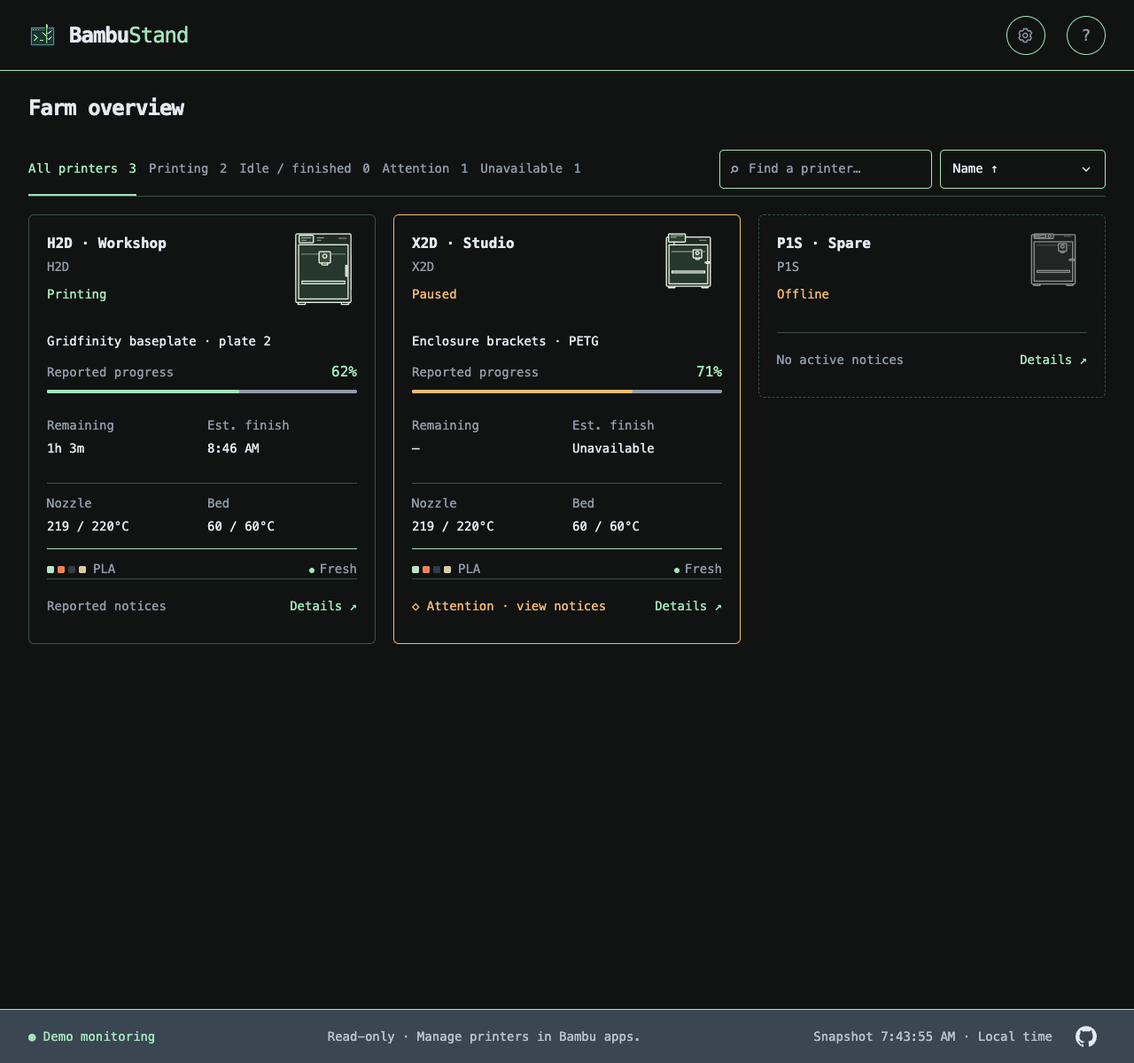
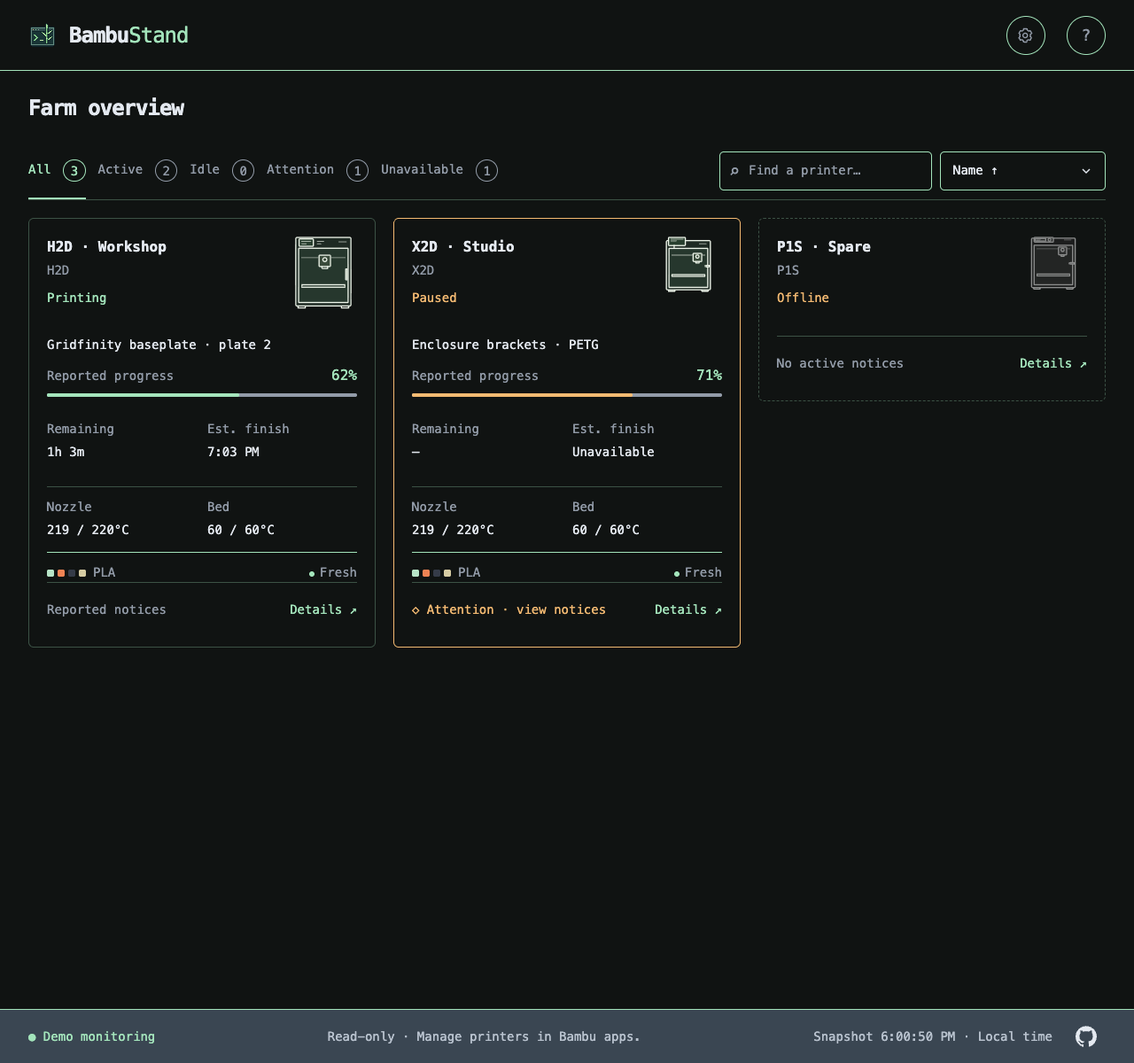
Refine browser status labels and count badges for v0.10.1

diff --git a/internal/webserver/assets/index.html b/internal/webserver/assets/index.html
@@ -45,9 +45,9 @@
         <section class="fleet" aria-label="Printers">
           <div class="toolbar">
             <div class="filters" role="group" aria-label="Filter printers">
-              <button class="selected" data-filter="all" aria-pressed="true">All printers <span id="all-count">0</span></button
-              ><button data-filter="printing" aria-pressed="false">Printing <span id="printing-count">0</span></button
-              ><button data-filter="idle" aria-pressed="false" aria-describedby="idle-filter-help">Idle / finished <span id="idle-count">0</span></button
+              <button class="selected" data-filter="all" aria-pressed="true">All <span id="all-count">0</span></button
+              ><button data-filter="printing" aria-pressed="false">Active <span id="printing-count">0</span></button
+              ><button data-filter="idle" aria-pressed="false" aria-describedby="idle-filter-help">Idle <span id="idle-count">0</span></button
               ><button data-filter="attention" aria-pressed="false">Attention <span id="attention-count">0</span></button
               ><button data-filter="unavailable" aria-pressed="false">Unavailable <span id="unavailable-count">0</span></button>
             </div>
@@ -185,7 +185,7 @@
         The Filament tab shows per-unit reported drying status and remaining minutes. Missing values stay unknown; old readings are last-known. Drying settings describe configuration, and the original AMS has no active dryer. Monitoring cannot start or stop drying.
       </p>
       <p>
-        Filters and sorting preserve your printer selection as updates arrive. The Idle / finished filter includes only currently available online printers explicitly reporting Idle or Finished. Offline, stale, missing, and unknown states are excluded; a finished job does not establish that the build plate is clear. Search matches printer names and models. Each status count reflects that search independently of the selected status. On narrow screens, use the Status selector.
+        Filters and sorting preserve your printer selection as updates arrive. The Active filter includes printers last reported as running, independently of availability. The Idle filter includes only currently available online printers explicitly reporting Idle or Finished. Offline, stale, missing, and unknown states are excluded; a finished job does not establish that the build plate is clear. Search matches printer names and models. Each status count reflects that search independently of the selected status. On narrow screens, use the Status selector.
       </p>
       <p>
         Scrolling the farm compacts the header. The filter, search, and sort toolbar

diff --git a/internal/webserver/assets/app.js b/internal/webserver/assets/app.js
@@ -214,8 +214,11 @@ function render() {
     b.setAttribute("aria-pressed", String(b.dataset.filter === filter));
   });
   if (!snapshot) return;
-  for (const choice of ["all", "printing", "idle", "attention", "unavailable"])
-    $("#" + choice + "-count").textContent = filterCount(choice);
+  for (const choice of ["all", "printing", "idle", "attention", "unavailable"]) {
+    const count = $("#" + choice + "-count"), value = String(filterCount(choice));
+    count.textContent = value;
+    count.style.setProperty("--count-digits", value.length);
+  }
   const selector = $("#mobile-filter");
   const options = Array.from(document.querySelectorAll(".filters button")).map(button =>
     `<option value="${button.dataset.filter}">${escapeHTML(button.textContent.trim())}</option>`).join("");

diff --git a/internal/webserver/assets/style.css b/internal/webserver/assets/style.css
@@ -362,8 +362,18 @@ h2 > span {
   box-shadow: 0 1px 3px #0004;
 }
 .filters button > span {
+  display: inline-grid;
+  place-items: center;
+  box-sizing: border-box;
+  width: max(1.8em, calc(1ch * var(--count-digits, 1) + 0.8em));
+  aspect-ratio: 1;
+  border: 1px solid currentColor;
+  border-radius: 50%;
   color: inherit;
-  margin-left: 4px;
+  margin-left: 0.4em;
+  font-variant-numeric: tabular-nums;
+  line-height: 1;
+  vertical-align: middle;
 }
 .filter-help {
   color: var(--muted);

diff --git a/internal/buildinfo/buildinfo.go b/internal/buildinfo/buildinfo.go
@@ -4,7 +4,7 @@ import "fmt"
 
 // Release builds inject these through -ldflags. Direct go builds remain useful.
 var (
-	Version = "0.10.0"
+	Version = "0.10.1"
 	Commit  = "unknown"
 	Date    = "unknown"
 )

diff --git a/docs/development/validation.md b/docs/development/validation.md
@@ -7,6 +7,13 @@ This record identifies checks actually performed, their source revisions, observ
 Historical entries were consolidated from the [record at `2e9f74a`](https://github.com/cliffom/bambustand/blob/2e9f74a/docs/development/validation.md). Consolidation adds no new product validation. A local pass reported below is a historical report, not a retained test log or a rerun against the current release. Linked CI runs and repository captures are inspectable evidence; temporary capture paths and user-supplied screenshots without repository links were not archived here. Missing environment or revision details are stated rather than reconstructed. Historical names and compatibility results apply to the revision checked.
 
 
+## Browser status labels and circular totals (#185)
+
+- **Scope:** 2026-11-13; v0.10.1, uncommitted changes based on `82a43c46db53`. Browser status labels/count styling only; existing status predicates and search intersections remain unchanged.
+- **Method:** macOS 27.2.1 (26B131) arm64, Go 1.27.4, Node 24.22.1, Playwright 1.64.1 and Chrome 157.0.8103.78. Ran the three dependency-free browser scripts (50 tests), `tools/test-browser-layout.cjs`, `tools/test-browser-theme-layout.cjs` and `tools/test-browser-inspector.cjs` against synthetic `serve --demo` at localhost:8080. Layout covered 0/1/24 printers at 1440×1000, 1920×1080, 1280×800, 390×844, 320×568, 568×320 and 1280×240 at normal text, plus 320×568, 390×844, 780×844, 568×320 and 1280×240 at 200% text, and two separate compact interaction cases. Added label/mobile-option assertions and circle/text bounds for zero and multi-digit totals. Theme checks covered Follow host and all six bundled themes at 1280×800, 390×844, 320×568/200% and 568×320/200%, using twelve printers and explicit selected/unselected badge contrast assertions. Inspector checks covered its twelve existing size/text combinations. Ran `make fmt-check`, pinned golangci-lint v2.15.0, `make test check build vuln-check release`, `make docs-check`, version output and diff checks. The first lint invocation lacked the executable; installing the pinned tool and rerunning passed. Used the documented gallery command with `NODE_PATH=/private/tmp/bambu-browser/node_modules`, installed Chrome via `BROWSER_PATH`, and a `SCREENSHOT_FILTER` selecting only the twelve affected overview/theme/filter/mobile/scrolled captures.
+- **Result:** All 50 browser units, 36 layout cases plus two compact scenarios, twelve inspector cases and 28 theme/layout combinations passed. Circle dimensions/text clearance and bundled-theme badge contrast passed; filtering, search, mobile selection and live focus/scroll behavior remain covered. The observer inspected all twelve refreshed gallery images for readable labels/counts, badge separation, artwork, focus outlines, footer clearance and clipping: [desktop](../../assets/screenshots/browser.png), [idle overview](../../assets/screenshots/browser-idle.png), [selected Idle](../../assets/screenshots/browser-idle-filter.png), [mobile Idle](../../assets/screenshots/browser-idle-filter-mobile.png), [mobile](../../assets/screenshots/browser-mobile.png), [mobile offline](../../assets/screenshots/browser-mobile-offline.png), [scrolled toolbar](../../assets/screenshots/browser-scrolled.png), and all five non-default theme overviews. Also inspected temporary 780×844/200% default and 1280×800 C64 twelve-printer captures for enlarged/multi-digit labels. Formatting, lint (zero findings), full race/PTY tests, vet/build and documentation checks passed; the vulnerability scan found no vulnerabilities. Four macOS/Linux arm64/amd64 archives passed packaging/documentation/helper checks; the local binary reports 0.10.1. README, usage, browser Help, UI direction and contributor guidance were updated. Cropped Settings/inspector captures, TUI captures/help and the farm-view guide remain accurate because they do not depict the changed browser status controls; historical evidence now links preserved `before-185` captures where necessary.
+- **Limits:** Synthetic Chrome checks do not establish Safari/Firefox or physical mobile behavior, live cloud/hardware operation, or native notification presentation. Packaging is an ad-hoc local candidate, without Developer ID signing, notarization or clean-machine Gatekeeper evidence. No release was published. Temporary logs and acceptance captures under `/private/tmp/185-*` are unarchived; [remaining live checks](#remaining-live-checks) retain their existing scope.
+
 ## Notification re-entry focus return (PR #184 follow-up)
 
 - **Scope:** 2026-11-13; v0.10.0 follow-up to the independent agent review at `b99c876e5a55`, with uncommitted changes based on that revision. The review found that notification entry while an inspector was already open replaced its original external opener with an inspector descendant.
@@ -27,7 +34,7 @@ Historical entries were consolidated from the [record at `2e9f74a`](https://gith
 
 - **Scope:** 2026-11-13; v0.10.0 follow-up to the owner-provided mobile filter screenshot, with uncommitted changes based on `e8416e4c2f3b`. Prior implementation and toolchain CI passed before this follow-up.
 - **Method:** Same macOS 27.0.1 arm64, Go 1.27.4, Node 24.22.1, Playwright 1.64.1 and Chrome 157.0.8103.78 environment as the dashboard entry below. Started synthetic `serve --demo` on port 8183 because 8080 was occupied by a non-demo session; browser scripts refused that non-demo endpoint before capture or mutation. Used `DEMO_URL=http://127.0.0.1:8183` for layout/theme scripts and gallery tooling, with `SCREENSHOT_FILTER='^(browser-mobile(-offline)?|browser-idle-filter(-mobile)?)\.png$'`. Reran the 36 layout cases and two compact interaction cases, extending the inset/centering/text-clearance/pointer assertions to the mobile Status chevron. Ran 28 theme/layout combinations, the 48 browser unit tests, `go test -race ./internal/webserver`, formatting, pinned lint and `make docs-check`. Inspected the resulting 390×844 Gruvbox Dark Idle / finished capture and default mobile/offline captures.
-- **Result:** All listed checks passed. Status now shares Sort's custom chevron size, centered placement, right inset and reserved text padding while retaining the native select interaction and accessible label. The Idle / finished helper is shorter while retaining the physical-readiness qualification; full membership/readiness guidance remains in Help and the user guide. Updated [desktop filter](../../assets/screenshots/browser-idle-filter.png), [mobile](../../assets/screenshots/browser-mobile.png), [mobile offline](../../assets/screenshots/browser-mobile-offline.png), and new [Gruvbox Dark mobile filter](../../assets/screenshots/browser-idle-filter-mobile.png) captures. The prior dashboard entry retains its original mobile evidence in a separately named capture. README, other guides/help and desktop/theme/inspector/terminal captures remain accurate: their depicted controls/layout and selection behavior did not change. No additional release version is required; this refines the pending v0.10.0 PR.
+- **Result:** All listed checks passed. Status now shares Sort's custom chevron size, centered placement, right inset and reserved text padding while retaining the native select interaction and accessible label. The Idle / finished helper is shorter while retaining the physical-readiness qualification; full membership/readiness guidance remains in Help and the user guide. Updated [desktop filter](../../assets/screenshots/browser-idle-filter-before-185.png), [mobile](../../assets/screenshots/browser-mobile-before-185.png), [mobile offline](../../assets/screenshots/browser-mobile-offline-before-185.png), and new [Gruvbox Dark mobile filter](../../assets/screenshots/browser-idle-filter-mobile-before-185.png) captures. The prior dashboard entry retains its original mobile evidence in a separately named capture. README, other guides/help and desktop/theme/inspector/terminal captures remain accurate: their depicted controls/layout and selection behavior did not change. No additional release version is required; this refines the pending v0.10.0 PR.
 - **Limits:** Synthetic Chromium geometry and visual inspection do not establish Safari/Firefox/native mobile select menus or hardware validation. The supplied screenshot's browser/device metadata was unavailable. Temporary test output is unarchived; broader browser/device checks remain in [#139](https://github.com/cliffom/bambustand/issues/139).
 
 
@@ -35,7 +42,7 @@ Historical entries were consolidated from the [record at `2e9f74a`](https://gith
 
 - **Scope:** 2026-11-12 local date; v0.10.0 preparation on `feat/183-compact-web-dashboard`, based on `d2274bd63483`, with uncommitted implementation and documentation changes. Presentation/navigation checks are separate from live hardware and the earlier dashboard/inspector evidence below.
 - **Method:** macOS 27.0.1 (26A434) arm64, Go 1.27.4, Node 24.22.1, Playwright 1.64.1 and installed Chrome 157.0.8103.78. Ran `make fmt-check lint test check build` with pinned golangci-lint v2.15.0, `make docs-check`, `make vuln-check`, `make audit-faults`, `make release`, `./bin/bambustand --version`, `git diff --check`, the three dependency-free browser scripts, and the layout/inspector/theme-layout scripts against foreground `serve --demo`. Layout checks covered 0/1/24 printers at 1440×1000, 1920×1080, 1280×800, 390×844, 320×568, 568×320 and 1280×240 at normal text, plus 320×568, 390×844, 780×844, 568×320 and 1280×240 at 200% text. Separate 1440/390-width cases checked search/status intersections, desktop/mobile count parity, recovery, Details/Notices entry, exact action focus after polling, tall-card action visibility and reduced motion. Inspector checks covered those twelve size/text combinations, all three panels, long names/jobs, multiple nozzles/AMS units, unknown/zero/empty inventory, independent estimates/drying, offline/stale/feed loss, hiding and failed-save recovery. Theme checks covered Follow host and all six bundled choices in 28 size/theme combinations. Ran `node tools/capture-browser-screenshots.cjs` with `NODE_PATH=/private/tmp/bambustand-web-concept/node_modules` and `BROWSER_PATH=/Applications/Google Chrome.app/Contents/MacOS/Google Chrome`; it generated eighteen current captures, including the new 1440×1000 idle example. The observer inspected the gallery, enlarged/short-window inspector captures and a temporary five-model artwork view for alignment, readable labels, clipping, tab/close access, footer clearance and scrolling. Temporary logs/contact sheets remain unarchived.
-- **Result:** The full race/PTY suite, formatting, lint (zero issues), vet/build, documentation checks, 48 browser unit tests, 36 layout cases plus two compact-interaction scenarios, twelve inspector combinations and 28 theme/layout combinations passed. The vulnerability scan found no vulnerabilities; the pinned fault audit passed. Four macOS/Linux arm64/amd64 archives passed inventory/documentation/helper checks, and the local binary reported 0.10.0. Initial [CI at `a94ac57`](https://github.com/cliffom/bambustand/actions/runs/43388514859) failed on Ubuntu before tests: its pinned Go 1.27.3 reported GO-2026-6859 (net/http), fixed in 1.27.4. The macOS job was canceled by fail-fast; lint passed. Local checks had used the installed 1.27.4 and found no vulnerabilities. The follow-up pins 1.27.4 in go.mod and updates maintained source-build requirements; the local scan and checks use that patched version. Browser checks reproduced and fixed an invisible result announcement extending the page range, action-row overflow at narrow enlarged text, an over-shrunk search/sort group at 1280×240/200%, inadequate short-window inspector space, and keyboard clearance that could move a tall card's focused action out of view. Toolbar pinning is flush under the header, with short-window flow fallback. Reviewed/replaced every maintained browser gallery capture; representative results are [overview](../../assets/screenshots/browser.png), [idle A1 mini](../../assets/screenshots/browser-idle.png), [scrolled toolbar](../../assets/screenshots/browser-scrolled.png), [mobile before the selector refinement](../../assets/screenshots/browser-mobile-before-status-selector.png), [Overview](../../assets/screenshots/browser-printer-details.png), [Filament](../../assets/screenshots/browser-filament.png), [Notices](../../assets/screenshots/browser-notices.png) and [Settings](../../assets/screenshots/browser-themes.png). README, usage, farm-view, branding, UI direction and browser Help now describe the resulting behavior. TUI/CLI help and terminal captures remain accurate because their controls/layout did not change. Older entries that linked replaced captures now link retained `before-183` copies from `d2274bd`; no historical conclusion or limitation was changed. Open issue/milestone states were reviewed for roadmap priority reconciliation; #183 precedes the notification backlog without implementing its separate issues.
+- **Result:** The full race/PTY suite, formatting, lint (zero issues), vet/build, documentation checks, 48 browser unit tests, 36 layout cases plus two compact-interaction scenarios, twelve inspector combinations and 28 theme/layout combinations passed. The vulnerability scan found no vulnerabilities; the pinned fault audit passed. Four macOS/Linux arm64/amd64 archives passed inventory/documentation/helper checks, and the local binary reported 0.10.0. Initial [CI at `a94ac57`](https://github.com/cliffom/bambustand/actions/runs/43388514859) failed on Ubuntu before tests: its pinned Go 1.27.3 reported GO-2026-6859 (net/http), fixed in 1.27.4. The macOS job was canceled by fail-fast; lint passed. Local checks had used the installed 1.27.4 and found no vulnerabilities. The follow-up pins 1.27.4 in go.mod and updates maintained source-build requirements; the local scan and checks use that patched version. Browser checks reproduced and fixed an invisible result announcement extending the page range, action-row overflow at narrow enlarged text, an over-shrunk search/sort group at 1280×240/200%, inadequate short-window inspector space, and keyboard clearance that could move a tall card's focused action out of view. Toolbar pinning is flush under the header, with short-window flow fallback. Reviewed/replaced every maintained browser gallery capture; representative results are [overview](../../assets/screenshots/browser-before-185.png), [idle A1 mini](../../assets/screenshots/browser-idle-before-185.png), [scrolled toolbar](../../assets/screenshots/browser-scrolled-before-185.png), [mobile before the selector refinement](../../assets/screenshots/browser-mobile-before-status-selector.png), [Overview](../../assets/screenshots/browser-printer-details.png), [Filament](../../assets/screenshots/browser-filament.png), [Notices](../../assets/screenshots/browser-notices.png) and [Settings](../../assets/screenshots/browser-themes.png). README, usage, farm-view, branding, UI direction and browser Help now describe the resulting behavior. TUI/CLI help and terminal captures remain accurate because their controls/layout did not change. Older entries that linked replaced captures now link retained `before-183` copies from `d2274bd`; no historical conclusion or limitation was changed. Open issue/milestone states were reviewed for roadmap priority reconciliation; #183 precedes the notification backlog without implementing its separate issues.
 - **Limits:** Synthetic Chromium evidence establishes neither Safari/Firefox/mobile-device behavior (tracked in [#139](https://github.com/cliffom/bambustand/issues/139)) nor hardware telemetry accuracy, OS notification permission/banner/audio delivery, real-account persistence/reconnect, or a published release. Packaging is local/ad-hoc, without signing/notarization or clean-machine distribution evidence. At extreme short/enlarged sizes the page and inspector require scrolling; long title text uses its bounded scrolling header and tabs use horizontal scrolling. Remaining live checks retain their existing scope in [Remaining live checks](#remaining-live-checks).
 
 

diff --git a/docs/development/contributing.md b/docs/development/contributing.md
@@ -86,11 +86,11 @@ For UI and operator-visible behavior changes, complete the [documentation and sc
 
 For browser changes, run `node --test tools/test-browser-notices.cjs tools/test-browser-notifications.cjs tools/test-browser-themes.cjs` with Node.js 18 or newer (also run by Formatting and lint CI). These dependency-free tests exercise the dashboard script with a minimal DOM stand-in; use a real browser separately to inspect layout and keyboard behavior.
 
-For dashboard/filter/status-bar layout regressions, start `./bin/bambustand serve --demo --config /tmp/bambu-layout.toml` with an unused demo configuration path, then run `node tools/test-browser-layout.cjs`. This optional real-browser check requires Playwright (`npm install --prefix /tmp/bambu-browser playwright@1.64.1`, then set `NODE_PATH=/tmp/bambu-browser/node_modules`) and a compatible Chromium installation (`/tmp/bambu-browser/node_modules/.bin/playwright install chromium`, or set `BROWSER_PATH` to an installed Chrome executable). Set `DEMO_URL` for a non-default demo port and `SCREENSHOT_DIR` to save screenshots. It checks search-aware status counts and mobile selector parity, query/status recovery, separate Details/Notices actions, reduced motion, empty/single/24-printer fixtures, idle/finished membership and attention overlap, feed loss/recovery, focused-card fallback, image continuity, scrolling/polling, header collapse/restoration at and near the scroll limit, toolbar pinning and small-workspace fallback, pinned-control focus, telemetry reflow anchoring and focus restoration, filtering, dialogs and keyboard focus at desktop/mobile widths, short landscape heights, and 200% root text size, including the page-scrolling fallback with the outer page already scrolled when header/footer space is insufficient; it rejects non-demo servers. It is separate from the dependency-free CI tests.
+For dashboard/filter/status-bar layout regressions, start `./bin/bambustand serve --demo --config /tmp/bambu-layout.toml` with an unused demo configuration path, then run `node tools/test-browser-layout.cjs`. This optional real-browser check requires Playwright (`npm install --prefix /tmp/bambu-browser playwright@1.64.1`, then set `NODE_PATH=/tmp/bambu-browser/node_modules`) and a compatible Chromium installation (`/tmp/bambu-browser/node_modules/.bin/playwright install chromium`, or set `BROWSER_PATH` to an installed Chrome executable). Set `DEMO_URL` for a non-default demo port and `SCREENSHOT_DIR` to save screenshots. It checks shortened status labels, circular count bounds (including zero and multi-digit totals), search-aware status counts and mobile selector parity, query/status recovery, separate Details/Notices actions, reduced motion, empty/single/24-printer fixtures, idle/finished membership and attention overlap, feed loss/recovery, focused-card fallback, image continuity, scrolling/polling, header collapse/restoration at and near the scroll limit, toolbar pinning and small-workspace fallback, pinned-control focus, telemetry reflow anchoring and focus restoration, filtering, dialogs and keyboard focus at desktop/mobile widths, short landscape heights, and 200% root text size, including the page-scrolling fallback with the outer page already scrolled when header/footer space is insufficient; it rejects non-demo servers. It is separate from the dependency-free CI tests.
 
 With that demo server and Playwright environment, run `node tools/test-browser-inspector.cjs` for Overview/Filament/Notices keyboard navigation, selected-slot identity/removal, expanded Reading details, long printer/job names and unknown progress, independent time estimates, fixed controls and panel scrolling, telemetry/focus retention, populated/empty/all-hidden notices, local hiding/save feedback, reported drying/zero/unsupported states and independent aging, unavailable filament/status, opening/reopening selected-tab visibility, action identity through idle-to-running card replacement and repeated notification re-entry, and close/reopen/attention entry points across twelve desktop/mobile/short-window and 200% text combinations. `SCREENSHOT_DIR` saves each panel at each size. Like the other layout checks, it uses synthetic fixtures and establishes Chromium behavior only.
 
-With the same synthetic server and Playwright environment, run `node tools/test-browser-theme-layout.cjs` to verify Follow host and all bundled themes at 1280×800, 390×844, 320×568 with 200% text, and 568×320 with 200% text. It checks theme role mapping, native form color scheme, selected/primary/warning/footer contrast for bundled themes, job/temperature/selected-slot text contrast, theme-independent filament colors, Settings and printer-dialog overflow, focus return, sprite continuity, and reload persistence. `SCREENSHOT_DIR` saves theme-specific farm/Settings/inspector captures. Use a custom `theme_file` or `serve --theme` to inspect host inheritance. These checks establish Chromium behavior, not Safari/Firefox or actual mobile presentation.
+With the same synthetic server and Playwright environment, run `node tools/test-browser-theme-layout.cjs` to verify Follow host and all bundled themes at 1280×800, 390×844, 320×568 with 200% text, and 568×320 with 200% text. It checks theme role mapping, native form color scheme, selected/primary/warning/footer/count-badge contrast for bundled themes, job/temperature/selected-slot text contrast, theme-independent filament colors, Settings and printer-dialog overflow, focus return, sprite continuity, and reload persistence. `SCREENSHOT_DIR` saves theme-specific farm/Settings/inspector captures. Use a custom `theme_file` or `serve --theme` to inspect host inheritance. These checks establish Chromium behavior, not Safari/Firefox or actual mobile presentation.
 
 To refresh the README and user-guide browser gallery, use the same synthetic server and Playwright setup, then run `node tools/capture-browser-screenshots.cjs`. `DEMO_URL` selects the server; `BROWSER_PATH` selects Chromium; `SCREENSHOT_DIR` overrides the default `assets/screenshots/` output for inspection before replacement. The command refuses non-demo servers, uses synthetic printing/paused/offline fixtures plus a separate finished-printer scenario, and captures all bundled themes, Settings, Overview/Filament/Notices inspector tabs, filters, and mobile scrolling. Set `SCREENSHOT_FILTER` to a filename regular expression to write only affected captures. It exercises real UI controls and never enables notifications or writes notice decisions. Inspect the resulting PNGs before committing, update captions and the validation record, and preserve historical before/after captures when replacing files referenced by older evidence. The captures establish documentation appearance, not the full browser acceptance matrix or live hardware behavior.
 

diff --git a/docs/user/usage.md b/docs/user/usage.md
@@ -107,7 +107,7 @@ port = 8080
 
 The dashboard shows compact searchable/filterable printer cards, print state/progress, remaining-time estimates, temperatures, AMS/external filament, and reported conditions with intervention guidance where available. It polls every three seconds while visible, and best-effort while hidden when browser notifications are enabled. Multiple browser tabs share the TUI's monitoring connection and one encoded snapshot; they do not create cloud connections. Browser filters/sorting are session-local and do not change TUI preferences. Every browser sort groups online non-idle printers first, reported idle/finished printers next, and offline devices last, using the same [grouping and unknown/last-known distinctions](farm-view.md#sorting) as the TUI. Demo uses the same dashboard with clearly labeled synthetic data (`make demo`).
 
-Use the single printer toolbar to choose **All printers**, **Printing**, **Idle / finished**, **Attention**, or **Unavailable**. On narrow screens, use the labeled **Status** selector instead. Search matches printer names and models; each status count reflects that search independently of the selected status. Clear search to restore farm-wide counts. Attention and availability can overlap reported print states. Results are announced to assistive technology without a duplicate visible count. Empty results offer **Clear search** and/or **Show all statuses**, preserving the other choice and sort. **Idle / finished** includes only currently available online printers explicitly reporting `IDLE` or `FINISH`. Missing/stale telemetry, offline/cloud-disconnected devices, and unknown/active/paused/failed states are excluded. A delayed or disconnected browser feed removes these current-availability results until recovery. Printing describes the last reported state independently of availability; it may overlap Attention.
+Use the single printer toolbar to choose **All**, **Active**, **Idle**, **Attention**, or **Unavailable**. On narrow screens, use the labeled **Status** selector instead. Search matches printer names and models; each status count reflects that search independently of the selected status. Desktop totals sit in circular badges to distinguish them from the labels. Clear search to restore farm-wide counts. Attention and availability can overlap reported print states. Results are announced to assistive technology without a duplicate visible count. Empty results offer **Clear search** and/or **Show all statuses**, preserving the other choice and sort. **Idle** includes only currently available online printers explicitly reporting `IDLE` or `FINISH`. Missing/stale telemetry, offline/cloud-disconnected devices, and unknown/active/paused/failed states are excluded. A delayed or disconnected browser feed removes these current-availability results until recovery. Active includes printers last reported as running independently of availability; it may overlap Attention.
 
 Scrolling the farm compacts the branding/Settings/Help header; returning to the top expands it. Once the filter/search/sort toolbar reaches the header, it stays beneath it while printer cards scroll. In short windows or with heavily wrapped controls (including enlarged text), the toolbar scrolls normally when pinning would leave too little room for cards. Keyboard navigation brings card headings clear of the pinned toolbar. Background updates restore focus without scrolling back to a printer that has moved outside the viewport.
 
@@ -129,7 +129,7 @@ The browser uses the same semantic RGB colors for text, backgrounds, borders, se
 
 ![Browser Appearance settings using the bundled Hotdog theme](../../assets/screenshots/browser-themes.png)
 
-Unknown fields remain unknown. Stale, offline, and disconnected readings are marked last-known; completion is never inferred from progress or an estimate. A stale remaining-time estimate remains last-known even if temperature reports are fresh. If the dashboard server becomes unreachable or its snapshot is delayed, the browser preserves last-known data with a warning; this does not establish printer connectivity or fault resolution. Status counts continue to reflect search and last-reported states; Idle / finished excludes unavailable monitoring.
+Unknown fields remain unknown. Stale, offline, and disconnected readings are marked last-known; completion is never inferred from progress or an estimate. A stale remaining-time estimate remains last-known even if temperature reports are fresh. If the dashboard server becomes unreachable or its snapshot is delayed, the browser preserves last-known data with a warning; this does not establish printer connectivity or fault resolution. Status counts continue to reflect search and last-reported states; Idle excludes unavailable monitoring.
 
 Printer cards use locally bundled front-view SVG illustrations for H2D, X2D, X1 Carbon, P1S, and A1 mini, with a generic fallback for other or unknown models. These illustrations identify the reported model visually; they do not show installed accessories or live printer state. They load from localhost and need no external image service.
 
@@ -167,7 +167,7 @@ The [compact idle example](../../assets/screenshots/browser-idle.png) shows an A
 
 The [scrolled desktop view](../../assets/screenshots/browser-scrolled.png) shows the compact header and pinned filter/search/sort toolbar at 1280 × 640. The toolbar also stays visible in the mobile offline-card view below.
 
-The [Appearance and notification settings](../../assets/screenshots/browser-themes.png) capture above shows the theme selector and Enable/Test/Disable controls with automatic browser notifications off. The [Idle / finished filter](../../assets/screenshots/browser-idle-filter.png) and [mobile Status selector in Gruvbox Dark](../../assets/screenshots/browser-idle-filter-mobile.png) captures use a separate synthetic finished-printer scenario; it does not establish that a printer is physically ready.
+The [Appearance and notification settings](../../assets/screenshots/browser-themes.png) capture above shows the theme selector and Enable/Test/Disable controls with automatic browser notifications off. The [Idle filter](../../assets/screenshots/browser-idle-filter.png) and [mobile Status selector in Gruvbox Dark](../../assets/screenshots/browser-idle-filter-mobile.png) captures use a separate synthetic finished-printer scenario; it does not establish that a printer is physically ready.
 
 | Mobile overview | Mobile offline card after scrolling |
 | --- | --- |

diff --git a/docs/development/ui-direction.md b/docs/development/ui-direction.md
@@ -83,7 +83,7 @@ Keep the browser status bar in its own row at the viewport bottom, with a full-w
 
 Compact the branding/Settings/Help header when the farm workspace scrolls down and restore it at the top. Keep visible content and the scroll range stable during collapse/expansion, preserving the combined page/workspace offset when the outer page also scrolls. Pin the complete filter/search/sort toolbar immediately beneath the compact header once reached, using an opaque theme background and keeping card headings clear during navigation. Restore focus after telemetry updates without bringing an offscreen card back into view. If the toolbar would leave less than the minimum usable workspace (the smaller of 12rem or half the viewport height), let it scroll normally. Recalculate after resizing or text reflow; preserve modal layering and avoid motion during geometry changes.
 
-Use one primary browser status toolbar (All printers, Printing, Idle / finished, Attention, Unavailable), with search and sort. Counts intersect each status predicate with the current name/model search independently of the selected status. Clearing search restores farm-wide counts. On narrow screens show a labeled Status selector instead of the desktop buttons, with identical counts. Status and Sort use consistently sized, centered, inset chevrons with reserved text space. Omit whole-farm summary panels and visible duplicate result counts; announce results through a visually hidden live region. Keep snapshot/local-time metadata in the footer. Idle / finished requires current telemetry, an available browser feed and a connected session; exclude unknown/offline/stale readings. Printing retains last-reported state membership; attention may overlap other groups. Never claim physical readiness. Empty results explain the query/status intersection and offer Clear search and/or Show all statuses; restore focus to search or the visible status control. If a focused printer leaves the view, return focus to the visible active status control.
+Use one primary browser status toolbar (All, Active, Idle, Attention, Unavailable), with search and sort. Counts intersect each status predicate with the current name/model search independently of the selected status. Clearing search restores farm-wide counts. Put every desktop status total in a circular, theme-colored outline badge, with room for zero and multi-digit totals at enlarged text sizes. On narrow screens show a labeled Status selector instead of the desktop buttons, with identical counts. Status and Sort use consistently sized, centered, inset chevrons with reserved text space. Omit whole-farm summary panels and visible duplicate result counts; announce results through a visually hidden live region. Keep snapshot/local-time metadata in the footer. Idle includes reported Idle or Finished and requires current telemetry, an available browser feed and a connected session; exclude unknown/offline/stale readings. Active retains last-reported running-state membership; attention may overlap other groups. Never claim physical readiness. Empty results explain the query/status intersection and offer Clear search and/or Show all statuses; restore focus to search or the visible status control. If a focused printer leaves the view, return focus to the visible active status control.
 
 Cards consolidate name, model and textual status on the left with top-aligned decorative artwork on the right. Keep idle cards short with No active print and available telemetry. Name and Details actions open Overview; the separate attention action opens Notices, as do system notifications. Keep action targets at least 44 CSS pixels at default text. Preserve each focused action and connected artwork across polls. Use restrained theme-derived borders. Keep the inspector tabs in a single horizontally scrollable row; all remain reachable by touch and keyboard. At narrow widths/enlarged text, omit decorative header art/model, constrain the scrollable title, and reserve space for readable panel content and Close. The approved [Design study 02](../reference/design/dashboard-study-02.html) is a synthetic visual reference, not production or hardware evidence.
 

diff --git a/README.md b/README.md
@@ -24,7 +24,7 @@ A keyboard-driven workspace for your farm: move between printers, inspect job de
 
 A visual farm overview with searchable, filterable printer cards, model illustrations, progress, temperatures, and filament. Use Details or the printer name for an Overview with job progress, independent time estimates, and temperature tiles; inspect selectable AMS spool racks in Filament, or review reported conditions in Notices. Paused, stopped, canceled and confirmed finished prints have shared outcome summaries; individual codes and local decisions remain accessible. A separate attention action opens Notices. Status counts follow name/model search; phones use a Status selector. Unknown readings stay unknown. Stale readings are labeled last-known; offline cards show just printer identity and inactive artwork, with reading metadata and notices available through inspection.
 
-![Current browser dashboard with one filter toolbar, printing and paused printers, a simplified offline card, and the bottom status bar.](assets/screenshots/browser.png)
+![Browser dashboard with All, Active and Idle status tabs, circular totals, printing and paused printers, a simplified offline card, and the bottom status bar.](assets/screenshots/browser.png)
 
 Scroll the farm to [compact the header and keep the filter/search toolbar beneath it](assets/screenshots/browser-scrolled.png). Small workspaces let the toolbar scroll so cards remain reachable.
 

diff --git a/docs/ROADMAP.md b/docs/ROADMAP.md
@@ -16,7 +16,7 @@ Both interfaces show reported AMS drying status, known message descriptions and 
 
 ## Current priority
 
-The owner-requested compact browser dashboard in [#183](https://github.com/cliffom/bambustand/issues/183) takes the next release ahead of the notification backlog: search-aware status counts, mobile selection, compact cards and front-view illustrations, distinct Details/Notices entry, and responsive inspection. This branch prepares v0.10.0; the issue remains open until its implementation PR merges. Broader browser/device validation remains in #139. Notice controls (#136), view persistence (#138), remote access (#143), and notification policy remain separately scoped. After this release, resume the notification reliability milestone without dropping the usability and validation work below.
+The compact browser dashboard overhaul (#183) is complete. The requested tab-label and circular-count refinement in [#185](https://github.com/cliffom/bambustand/issues/185) prepares v0.10.1. After this polish, resume the notification reliability milestone, led by sustained monitoring-loss alerts (#175), without dropping the usability and validation work below. Broader browser/device validation remains in #139; notice controls (#136), view persistence (#138) and remote access (#143) remain separately scoped.
 
 ## Open-issue milestones
 

diff --git a/docs/CHANGELOG.md b/docs/CHANGELOG.md
@@ -2,6 +2,10 @@
 
 Release changes and upgrade notes are recorded below. Names and scope describe each historical release; see [usage](user/usage.md) for current behavior and the [validation record](development/validation.md) for checked revisions, evidence and outstanding limitations.
 
+## 0.10.1
+
+- Shorten browser status tabs to All, Active and Idle, and separate desktop totals in circular badges. The mobile Status selector uses the same labels. Filter membership and search-aware counts are unchanged: Active means last reported running, and Idle includes currently available Idle or Finished printers without implying physical readiness. No configuration migration is required.
+
 ## 0.10.0
 
 - Source builds require Go 1.27.4 or newer, addressing the standard-library vulnerability GO-2026-6859 reported by the release scan.
